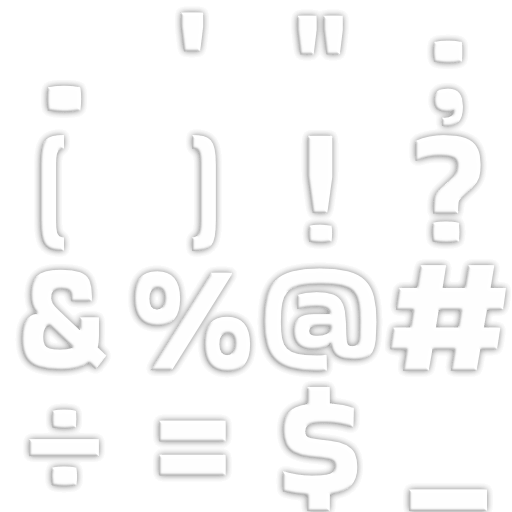
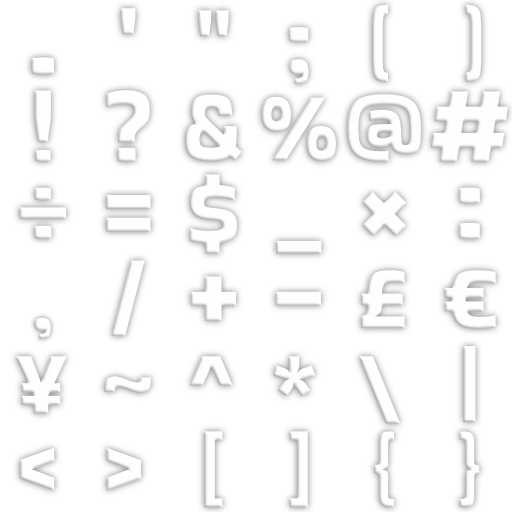
feat: add RussoOne font atlases

diff --git a/dcl/src/client/ui/themes/bowling/atlases.ts b/dcl/src/client/ui/themes/bowling/atlases.ts
@@ -156,15 +156,16 @@ export function getBowlingTextLabelSize(
 }
 
 
-// MARK: bowlingCharsAtlas
+// MARK: bowlingRussoOneAlphaNumericAtlas
 /**
- * Custom alphanumeric glyph sheet (`atlas-chars-alphaNumeric.png`) — 8×8.
- * Same cell order as Duck's bundled alphanumeric atlas. PNG top → bottom;
- * UV Y is bottom → top (`char()` inverts via `findAtlasCell`). Insets use
- * whole-pixel crops with a two-pixel safety margin inside each 64px cell.
+ * Russo One alphanumeric sheet (`atlas-chars-russoOne-alphaNumeric.png`) — 8×8.
+ * Same cell order as Duck's `atlasCharsAlphaNumeric`. PNG top → bottom;
+ * UV Y is bottom → top. Insets trim each side to the visible shadow and keep
+ * a few pixels of margin so filtering does not clip it. `0` means the glyph
+ * already touches the cell.
  */
-export const bowlingCharsAtlas = new TextureAtlas({
-	source : `${THEME_ASSET_PATH}/atlas-chars-alphaNumeric.png`,
+export const bowlingRussoOneAlphaNumericAtlas = new TextureAtlas({
+	source : `${THEME_ASSET_PATH}/atlas-chars-russoOne-alphaNumeric.png`,
 	columns: 8,
 	rows   : 8,
 	layout : [
@@ -178,68 +179,132 @@ export const bowlingCharsAtlas = new TextureAtlas({
 		"456789",
 	],
 	charInsets: {
-		a: { insetX: 0.140625 },
-		b: { insetX: 0.15625 },
-		c: { insetX: 0.1875 },
-		d: { insetX: 0.171875 },
-		e: { insetX: 0.15625 },
-		f: { insetX: 0.21875 },
-		g: { insetX: 0.171875 },
-		h: { insetX: 0.171875 },
-		i: { insetX: 0.390625 },
-		j: { insetX: 0.140625 },
-		k: { insetX: 0.125 },
-		l: { insetX: 0.328125 },
-		m: { insetX: 0.078125 },
-		n: { insetX: 0.171875 },
-		o: { insetX: 0.171875 },
-		p: { insetX: 0.171875 },
-		q: { insetX: 0.171875 },
-		r: { insetX: 0.203125 },
-		s: { insetX: 0.1875 },
-		t: { insetX: 0.203125 },
-		u: { insetX: 0.171875 },
-		v: { insetX: 0.109375 },
-		w: { insetX: 0 },
-		x: { insetX: 0.125 },
-		y: { insetX: 0.15625 },
-		z: { insetX: 0.1875 },
-		A: { insetX: 0.109375 },
-		B: { insetX: 0.09375 },
-		C: { insetX: 0.140625 },
-		D: { insetX: 0.109375 },
-		E: { insetX: 0.140625 },
-		F: { insetX: 0.125 },
-		G: { insetX: 0.109375 },
-		H: { insetX: 0.109375 },
-		I: { insetX: 0.390625 },
-		J: { insetX: 0.125 },
-		K: { insetX: 0.0625 },
-		L: { insetX: 0.125 },
-		M: { insetX: 0.0625 },
-		N: { insetX: 0.125 },
-		O: { insetX: 0.078125 },
-		P: { insetX: 0.09375 },
-		Q: { insetX: 0.078125 },
-		R: { insetX: 0.078125 },
-		S: { insetX: 0.109375 },
-		T: { insetX: 0.125 },
-		U: { insetX: 0.109375 },
-		V: { insetX: 0.078125 },
-		W: { insetX: 0 },
-		X: { insetX: 0.078125 },
-		Y: { insetX: 0.109375 },
-		Z: { insetX: 0.140625 },
-		0: { insetX: 0.0625 },
-		1: { insetX: 0.328125 },
-		2: { insetX: 0.140625 },
-		3: { insetX: 0.171875 },
-		4: { insetX: 0.140625 },
-		5: { insetX: 0.125 },
-		6: { insetX: 0.125 },
-		7: { insetX: 0.15625 },
-		8: { insetX: 0.140625 },
-		9: { insetX: 0.140625 },
+		a: { insetX: 0.15 },
+		b: { insetX: 0.14 },
+		c: { insetX: 0.17 },
+		d: { insetX: 0.15 },
+		e: { insetX: 0.16 },
+		f: { insetX: 0.17 },
+		g: { insetX: 0.15 },
+		h: { insetX: 0.14 },
+		i: { insetX: 0.30 },
+		j: { insetX: 0.19 },
+		k: { insetX: 0.13 },
+		l: { insetX: 0.27 },
+		m: { insetX: 0.00 },
+		n: { insetX: 0.14 },
+		o: { insetX: 0.14 },
+		p: { insetX: 0.14 },
+		q: { insetX: 0.14 },
+		r: { insetX: 0.20 },
+		s: { insetX: 0.14 },
+		t: { insetX: 0.21 },
+		u: { insetX: 0.14 },
+		v: { insetX: 0.13 },
+		w: { insetX: 0.00 },
+		x: { insetX: 0.15 },
+		y: { insetX: 0.11 },
+		z: { insetX: 0.16 },
+		A: { insetX: 0.06 },
+		B: { insetX: 0.09 },
+		C: { insetX: 0.13 },
+		D: { insetX: 0.10 },
+		E: { insetX: 0.12 },
+		F: { insetX: 0.12 },
+		G: { insetX: 0.10 },
+		H: { insetX: 0.10 },
+		I: { insetX: 0.24 },
+		J: { insetX: 0.21 },
+		K: { insetX: 0.09 },
+		L: { insetX: 0.12 },
+		M: { insetX: 0.03 },
+		N: { insetX: 0.11 },
+		O: { insetX: 0.08 },
+		P: { insetX: 0.08 },
+		Q: { insetX: 0.08 },
+		R: { insetX: 0.09 },
+		S: { insetX: 0.11 },
+		T: { insetX: 0.12 },
+		U: { insetX: 0.10 },
+		V: { insetX: 0.07 },
+		W: { insetX: 0.00 },
+		X: { insetX: 0.00 },
+		Y: { insetX: 0.07 },
+		Z: { insetX: 0.13 },
+		0: { insetX: 0.12 },
+		1: { insetX: 0.24 },
+		2: { insetX: 0.14 },
+		3: { insetX: 0.14 },
+		4: { insetX: 0.09 },
+		5: { insetX: 0.13 },
+		6: { insetX: 0.11 },
+		7: { insetX: 0.14 },
+		8: { insetX: 0.11 },
+		9: { insetX: 0.13 },
+	},
+})
+
+
+// MARK: bowlingRussoOneSymbolsAtlas
+/**
+ * Russo One symbol sheet (`atlas-chars-russoOne-symbols.png`) — 6×6.
+ * Same cell order as Duck's `atlasCharsSymbols`. `x` aliases to `×`.
+ * Insets trim each side to the visible shadow and keep a few pixels of
+ * margin so filtering does not clip it. `0` means the glyph already
+ * touches the cell.
+ */
+export const bowlingRussoOneSymbolsAtlas = new TextureAtlas({
+	source : `${THEME_ASSET_PATH}/atlas-chars-russoOne-symbols.png`,
+	columns: 6,
+	rows   : 6,
+	layout : [
+		".'\";()",
+		"!?&%@#",
+		"÷=$_×:",
+		",/+-£€",
+		"¥~^*\\|",
+		"<>[]{}",
+	],
+	aliases: {
+		'x': '×',
+	},
+	charInsets: {
+		'.' : { insetX: 0.28 },
+		"'" : { insetX: 0.31 },
+		'"' : { insetX: 0.15 },
+		';' : { insetX: 0.29 },
+		'(' : { insetX: 0.24 },
+		')' : { insetX: 0.22 },
+		'!' : { insetX: 0.29 },
+		'?' : { insetX: 0.08 },
+		'&' : { insetX: 0.04 },
+		'%' : { insetX: 0.00 },
+		'@' : { insetX: 0.06 },
+		'#' : { insetX: 0.00 },
+		'÷' : { insetX: 0.11 },
+		'=' : { insetX: 0.13 },
+		'$' : { insetX: 0.10 },
+		'_' : { insetX: 0.14 },
+		'×' : { insetX: 0.17 },
+		':' : { insetX: 0.28 },
+		',' : { insetX: 0.31 },
+		'/' : { insetX: 0.23 },
+		'+' : { insetX: 0.14 },
+		'-' : { insetX: 0.14 },
+		'£' : { insetX: 0.10 },
+		'€' : { insetX: 0.04 },
+		'¥' : { insetX: 0.01 },
+		'~' : { insetX: 0.11 },
+		'^' : { insetX: 0.10 },
+		'*' : { insetX: 0.11 },
+		'\\': { insetX: 0.10 },
+		'|' : { insetX: 0.31 },
+		'<' : { insetX: 0.10 },
+		'>' : { insetX: 0.12 },
+		'[' : { insetX: 0.25 },
+		']' : { insetX: 0.27 },
+		'{' : { insetX: 0.24 },
+		'}' : { insetX: 0.22 },
 	},
 })
 
